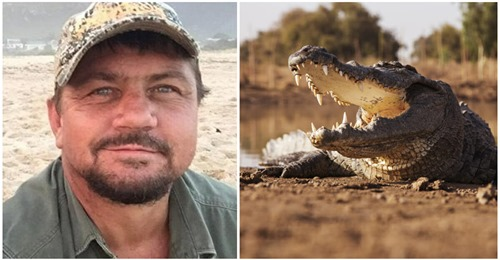
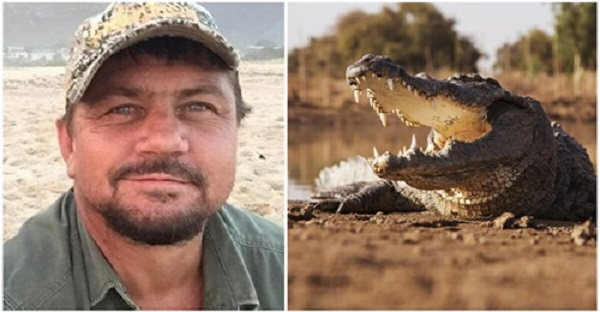
Update Post “2021-04-21-trophy-hunter-who-targeted-elephants-and-lions-gets-eaten-by-crocodiles”

diff --git a/src/content/posts/2021-04-21-trophy-hunter-who-targeted-elephants-and-lions-gets-eaten-by-crocodiles.md b/src/content/posts/2021-04-21-trophy-hunter-who-targeted-elephants-and-lions-gets-eaten-by-crocodiles.md
@@ -4,6 +4,7 @@ title: Trophy hunter who targeted elephants and lions gets eaten by crocodiles
 slug: "/Trophy-hunter-who-targeted "
 date: 2021-04-21 21:09
 description: All animal lovers
+featuredImage: /assets/safe_image-3-.jpg
 ---
 All animal lovers are [opposed to trophy hunting](https://www.theanimalclub.net/wildlife/ricky-gervais-speaks-out-against-trophy-hunting-calling-it-humanity-at-its-very-worst/). It can be hard to believe that there are people who enjoy killing at-risk animals like lions and rhinos.
 
@@ -15,7 +16,7 @@ Scott Van Zyl was a prolific trophy hunter from South Africa. In addition to bei
 
 His targets included lions, cheetahs, giraffes and elephants.
 
-![](/assets/safe_image-3-.jpg)
+![](https://www.theanimalclub.net/wp-content/uploads/sites/3/2020/07/C9DDa0XXgAAa6vH.jpeg)
 
 [Twitter/@SABreakingNews](https://twitter.com/SABreakingNews/status/851395213058863104/photo/1)
 
